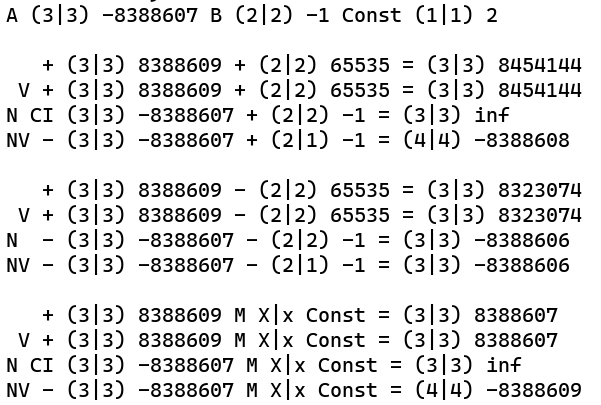
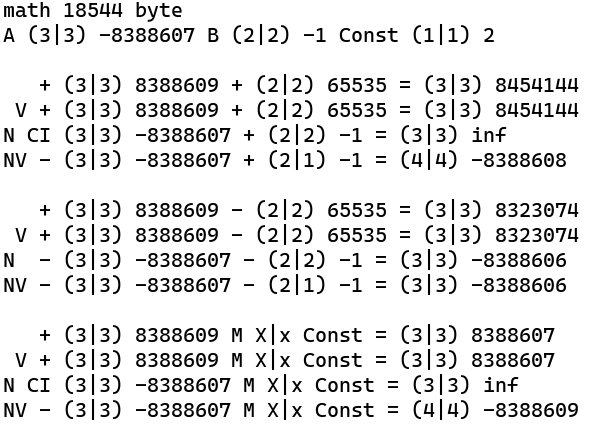
ps

Changed region(s): [[0.0, 0.0, 0.9884, 0.4148], [0.0, 0.4444, 0.9884, 0.7111], [0.0, 0.7407, 0.9884, 1.0]]

diff --git a/README.md b/README.md
@@ -1,7 +1,7 @@
 [![Cross-Platform Build & Release](https://github.com/AVPscan/Math/actions/workflows/release.yml/badge.svg)](https://github.com/AVPscan/Math/actions/workflows/release.yml)
 
 <div align="center">
-  <h1>Пример вычислений v11.2</h1>
+  <h1>Результат запуска v11.2</h1>
   
   <picture>
     <source media="(prefers-color-scheme: dark)" srcset="Plus/971b.jpeg">
